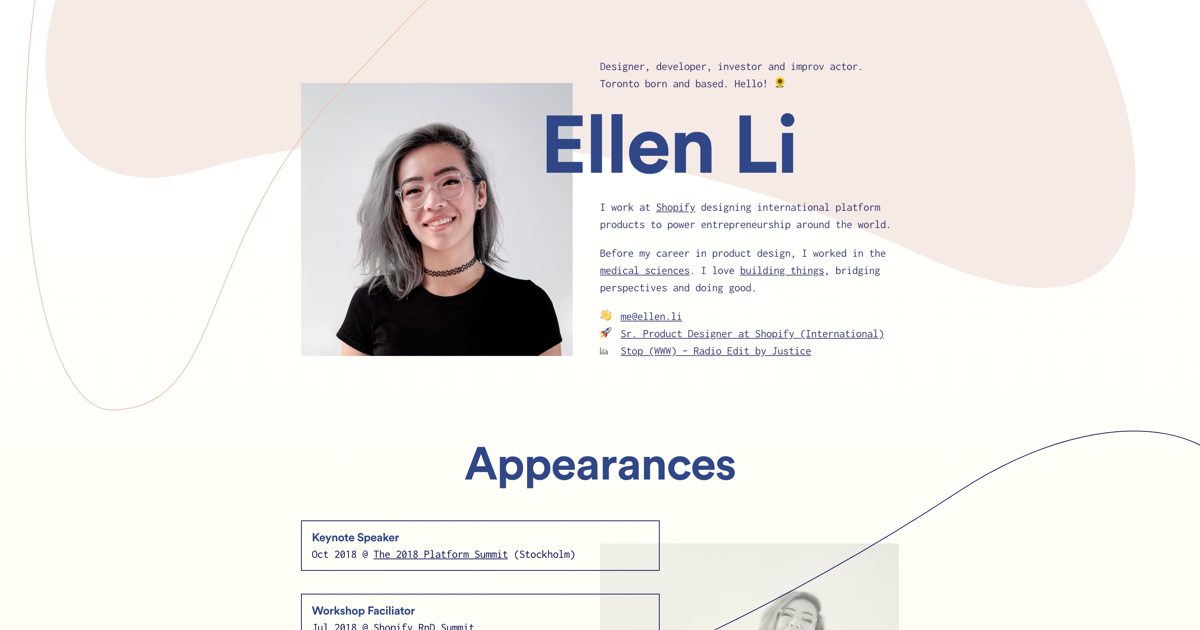
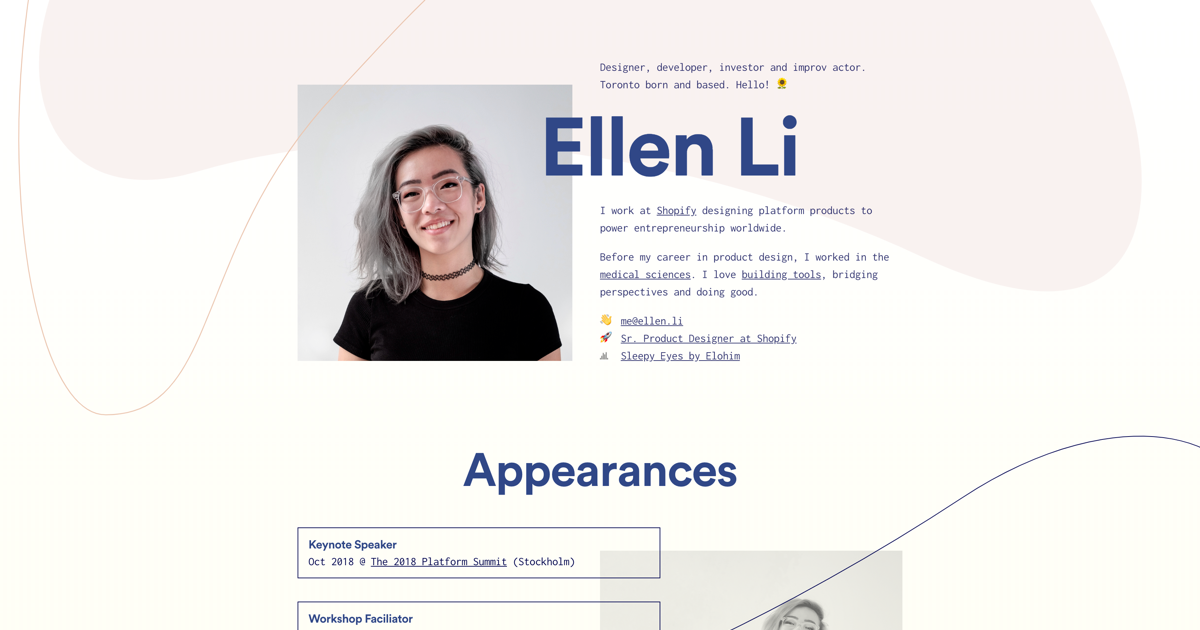
copy tweak and color tweak for better contrast

diff --git a/index.html b/index.html
@@ -30,14 +30,14 @@
 				</p>
 				<div class="bio">
 						<p>
-							I work at <a href="https://www.shopify.com" target="_blank">Shopify</a> designing international platform products to power entrepreneurship around the world.
+							I work at <a href="https://www.shopify.com" target="_blank">Shopify</a> designing platform products to power entrepreneurship worldwide.
 						</p>
 						<p>
-							Before my career in product design, I worked in the <a href="http://www.sickkids.ca/Research/index.html" target="_blank">medical sciences</a>. I love <a href="http://ellen.li/up-next" target="_blank" title="Up Next">building things</a>, bridging perspectives and doing good.
+							Before my career in product design, I worked in the <a href="http://www.sickkids.ca/Research/index.html" target="_blank">medical sciences</a>. I love <a href="http://ellen.li/up-next" target="_blank" title="Up Next">building tools</a>, bridging perspectives and doing good.
 						</p>
 						<p>
 						👋 <a href="mailto:me@ellen.li">me@ellen.li</a><br />
-						🚀 <a href="https://www.linkedin.com/in/ellen-li" target="_blank">Sr. Product Designer at Shopify (International)</a><br />
+						🚀 <a href="https://www.linkedin.com/in/ellen-li" target="_blank">Sr. Product Designer at Shopify</a><br />
 						<span id="equalizer"></span> <a href="https://www.last.fm/user/enspirit" target="_blank"><span id="nowPlaying"></span></a>
 					</p>
 				</div>

diff --git a/css/style.css b/css/style.css
@@ -127,7 +127,7 @@ section:last-of-type {
   justify-content: center;
   align-content: center;
   grid-template-columns: 20% 20% 10% 45% 5%;
-  grid-template-rows: 35px 145px;
+  grid-template-rows: 36px 145px;
   grid-template-areas:
               "... ... ... tagline tagline"
               "... ... name name name"
@@ -260,7 +260,7 @@ article h2 {
   background-blend-mode: multiply;
   mix-blend-mode: multiply;
   filter: grayscale(100%);
-  opacity: 0.5;
+  opacity: 0.6;
   grid-column: 2 / span 2;
   grid-row: 1 / span 2;
   z-index: 0;
@@ -324,7 +324,7 @@ article h2 {
   display: flex;
   align-items: center;
   justify-content: center;
-  fill: #F5E8E2;
+  fill: #F8F1EF;
   opacity: 0.9;
   top: -29% !important;
   width: 95%;
